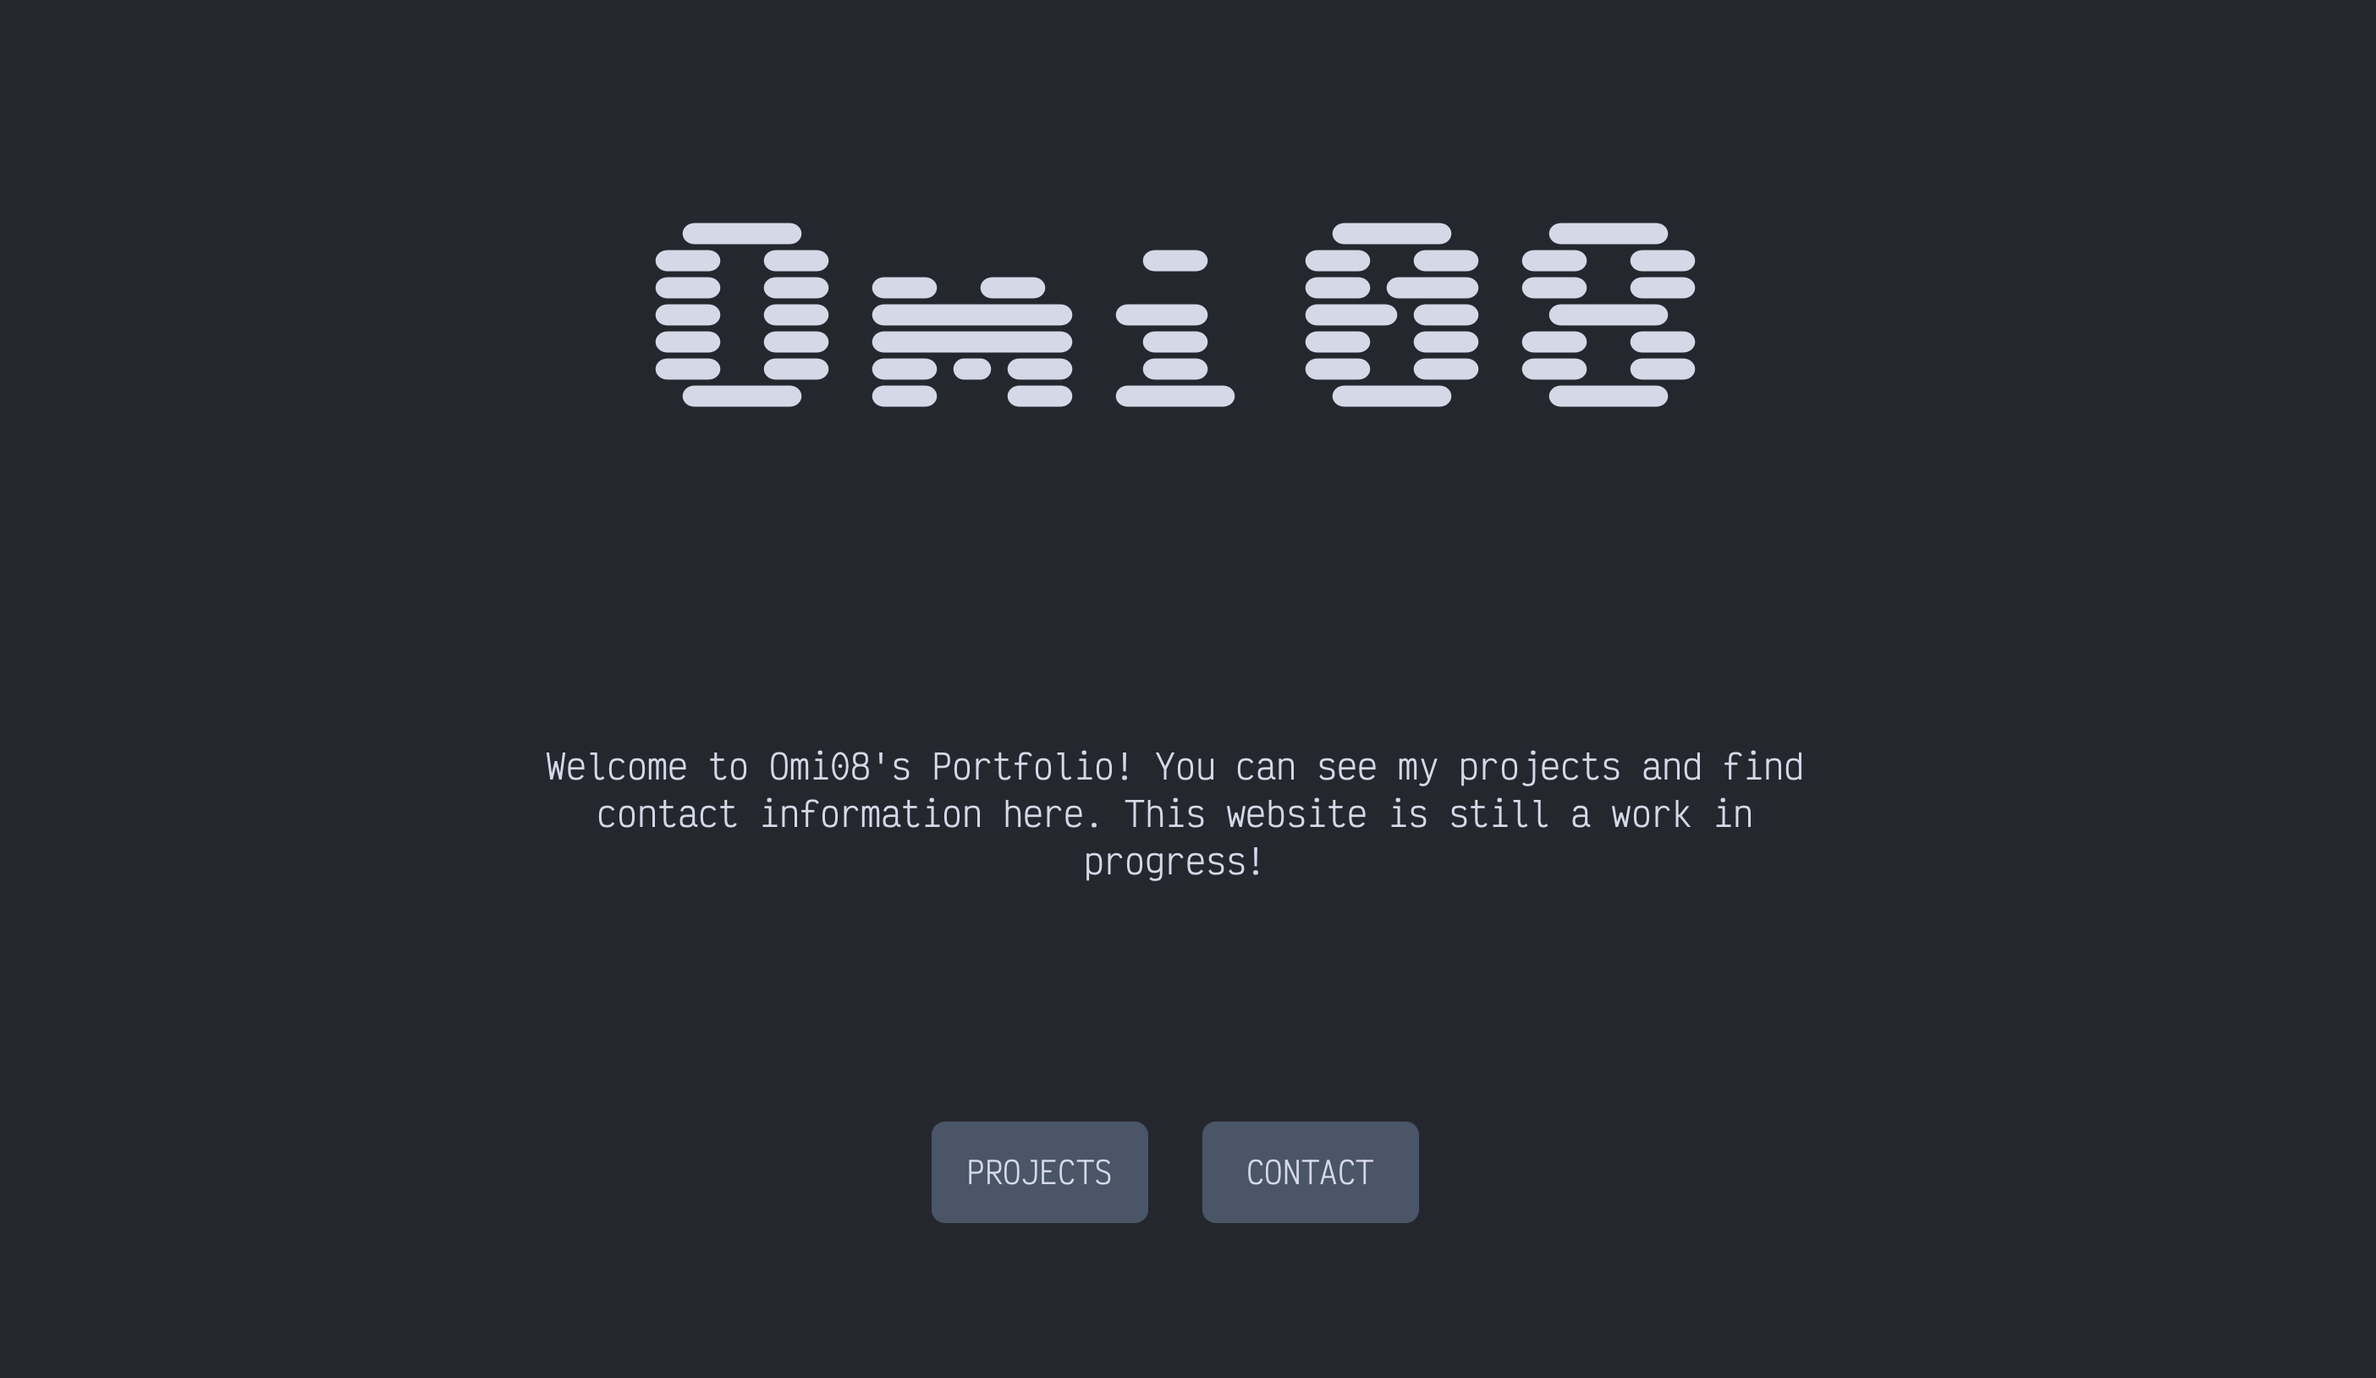
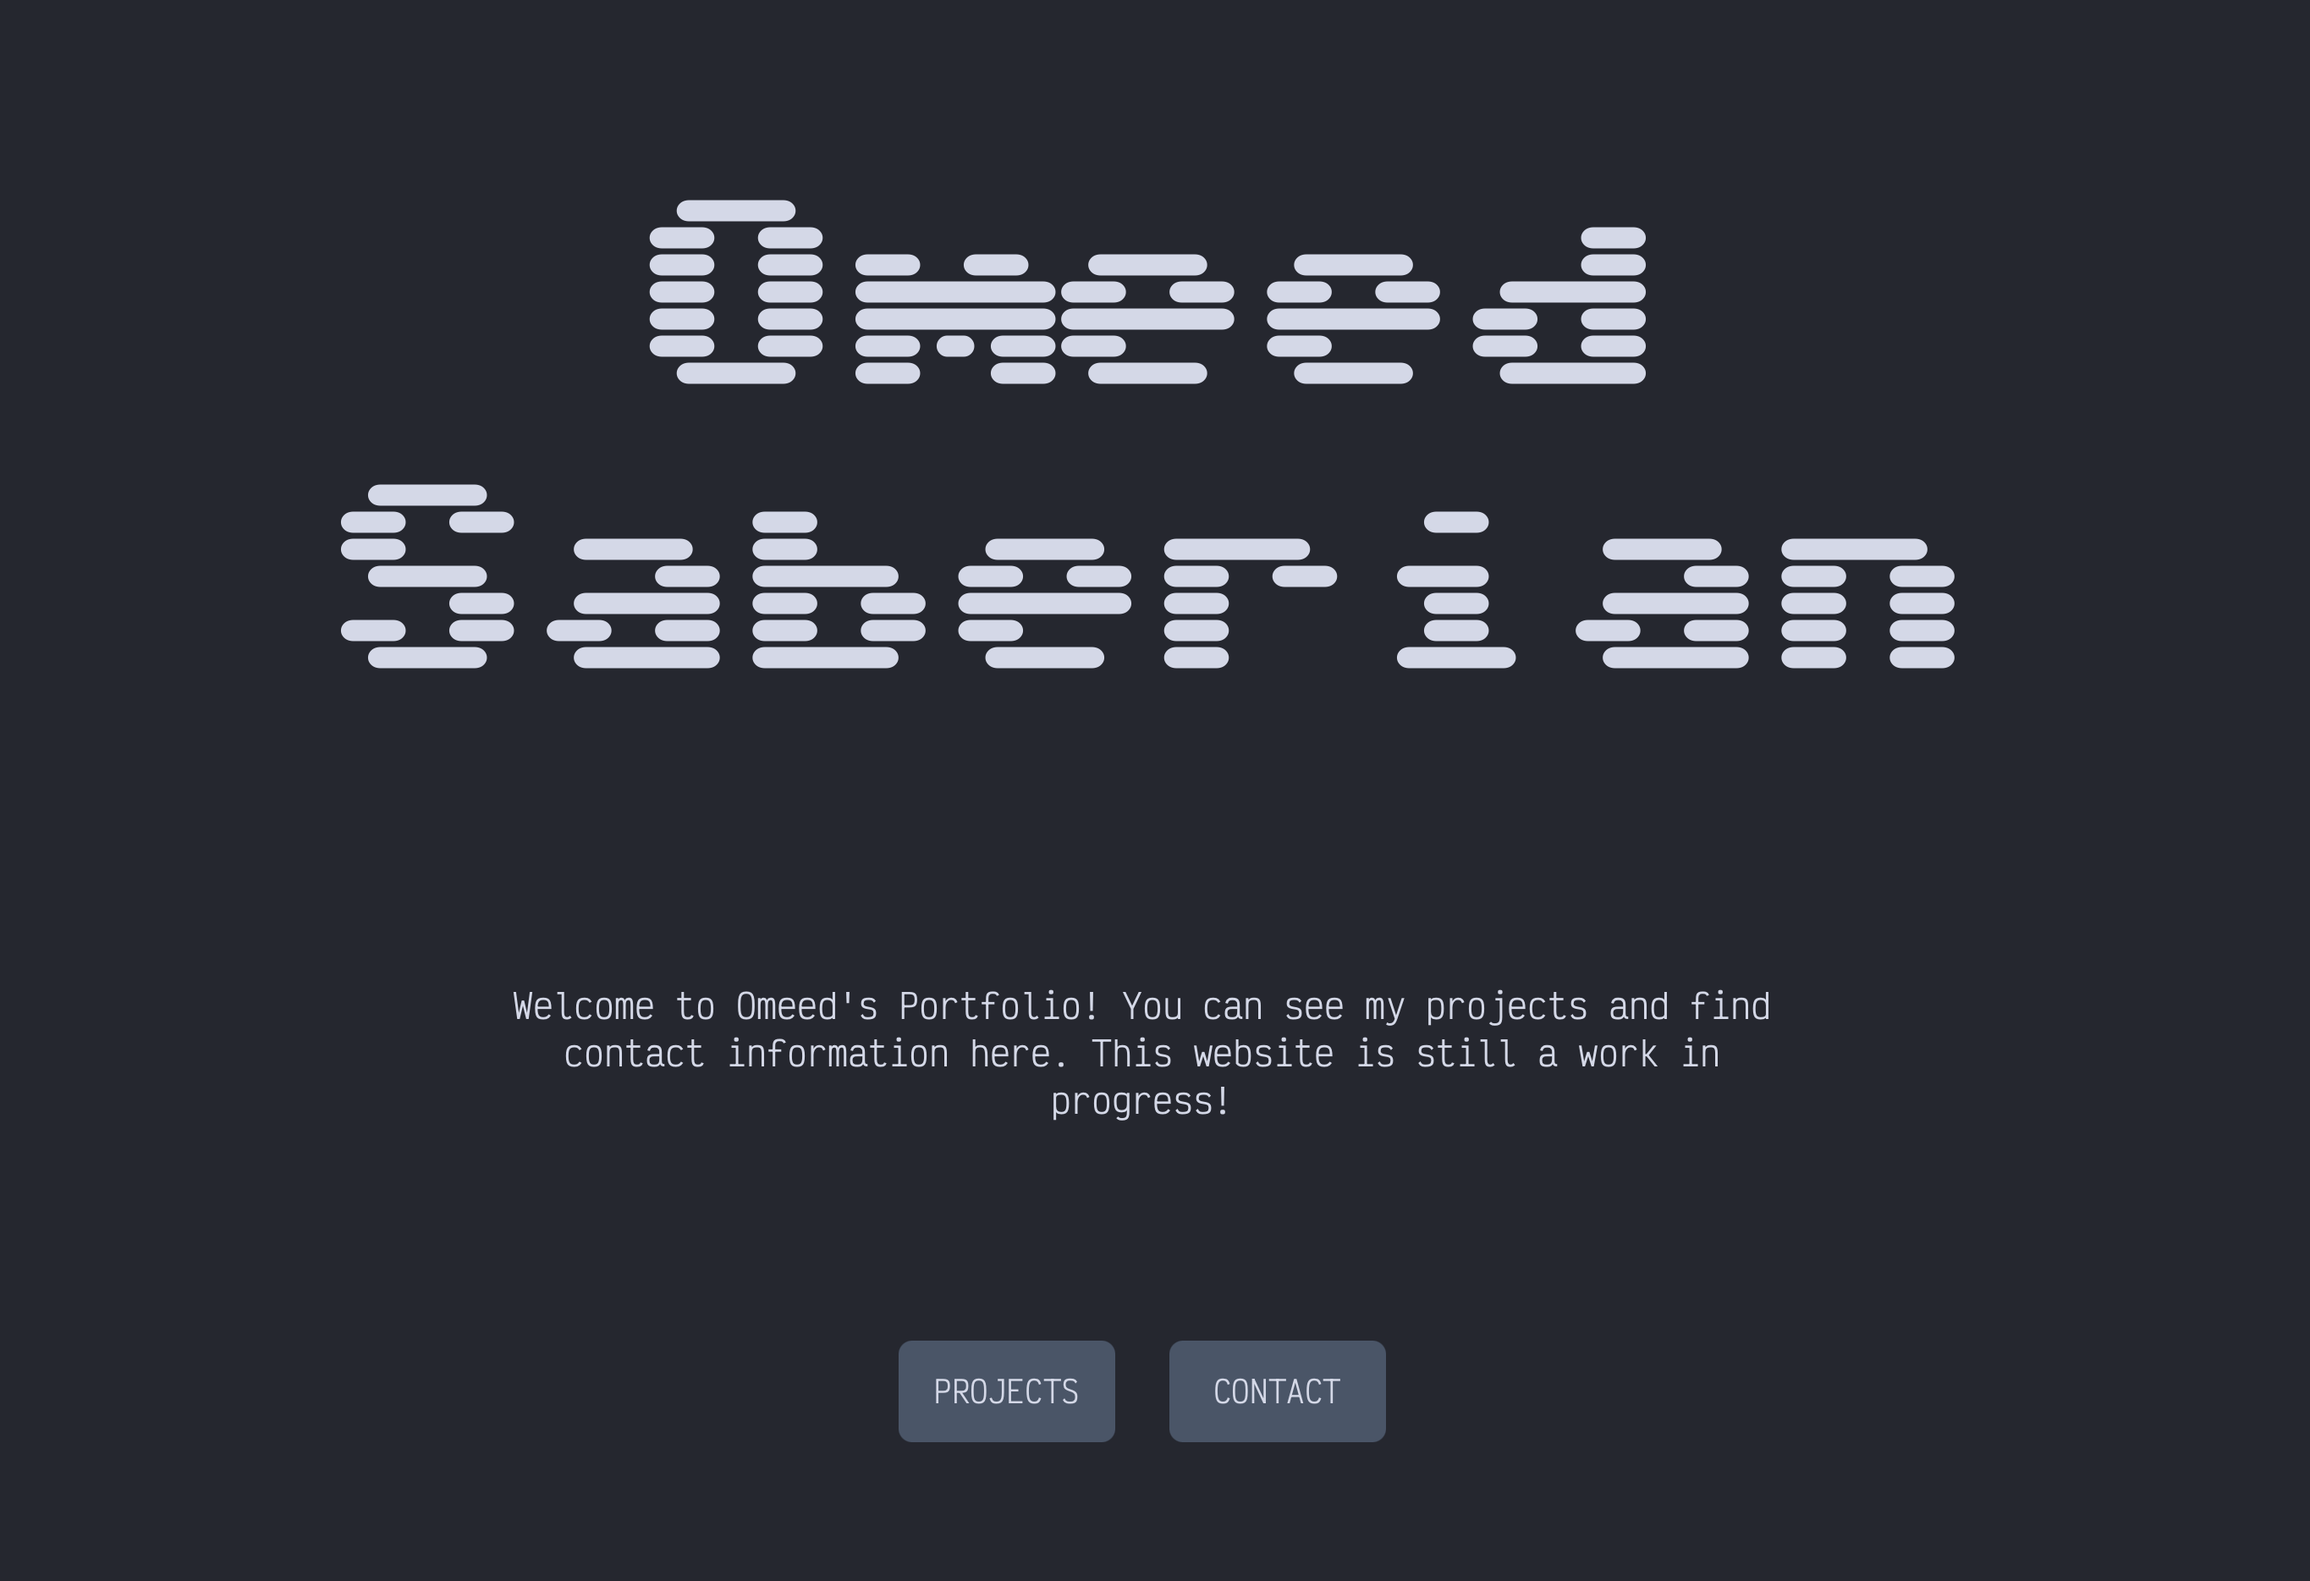
Update and improve

diff --git a/src/app/page.js b/src/app/page.js
@@ -13,7 +13,10 @@ export default function Home() {
 	return (
 		<main>
 			<section className="flex justify-evenly items-center h-screen flex-col">
-				<MainTitle title="Omeed Saberian" />
+				<div>
+					<MainTitle title="Omeed" />
+					<MainTitle title="Saberian" />
+				</div>
 				<p className="text-lg md:text-xl font-victormono text-center w-5/6 md:w-1/2">
 					Welcome to Omeed&apos;s Portfolio! You can see my projects and find
 					contact information here. This website is still a work in progress!
@@ -44,20 +47,11 @@ export default function Home() {
 			</ScreenSection>
 			<Seperator />
 			<ScreenSection name="contact">
-				<div className="grid grid-cols-1 md:grid-cols-2 lg:grid-cols-3 gap-8 p-20">
-					<ContactOption
-						title="Email"
-						content="omeedsaberian@gmail.com"
-						href="mailto:omeedsaberian@gmail"
-					/>
-					<ContactOption
-						title="GitHub"
-						content="osaberian"
-						href="https://github.com/osaberian"
-					/>
+				<div className="flex flex-col gap-8 p-20 sm:px-14 md:px-56 lg:px-72">
+					<ContactOption title="Email" href="mailto:omeedsaberian@gmail" />
+					<ContactOption title="GitHub" href="https://github.com/osaberian" />
 					<ContactOption
 						title="Instagram"
-						content="omeedsaberian"
 						href="https://www.instagram.com/omeedsaberian/"
 					/>
 				</div>

diff --git a/src/components/ContactOption.js b/src/components/ContactOption.js
@@ -1,13 +1,12 @@
 import React from "react";
 
-export default function ContactOption({ title, content, href }) {
+export default function ContactOption({ title, href }) {
 	return (
 		<a
 			className="border-slate-600 border-2 rounded-2xl p-4 hover:shadow-2xl hover:scale-105 transition-all duration-500"
 			href={href}
 		>
 			<h2 className="text-xl text-center font-victormono font-bold">{title}</h2>
-			<p className="text-center font-victormono mt-4">{content}</p>
 		</a>
 	);
 }

diff --git a/src/components/ProjectCard.js b/src/components/ProjectCard.js
@@ -15,6 +15,7 @@ export default function ProjectCard({
 	return (
 		<div className="flex flex-col border-slate-600 border-2 rounded-2xl overflow-hidden hover:shadow-2xl hover:scale-105 transition-all duration-500">
 			<Image src={imageSource} className="w-full" alt="" />
+			<hr className="border-slate-600" />
 			<div className="p-4">
 				<div className="flex justify-between items-center">
 					<h3 className="text-lg font-victormono">{title}</h3>

diff --git a/src/components/MainTitle.js b/src/components/MainTitle.js
@@ -2,7 +2,7 @@ import React from "react";
 
 export default function MainTitle({ title }) {
 	return (
-		<h1 className="font-sixtyfour text-5xl md:text-8xl lg:text-9xl mb-10">
+		<h1 className="font-sixtyfour text-4xl md:text-7xl lg:text-9xl mb-10 text-center tracking-tighter">
 			{title}
 		</h1>
 	);
